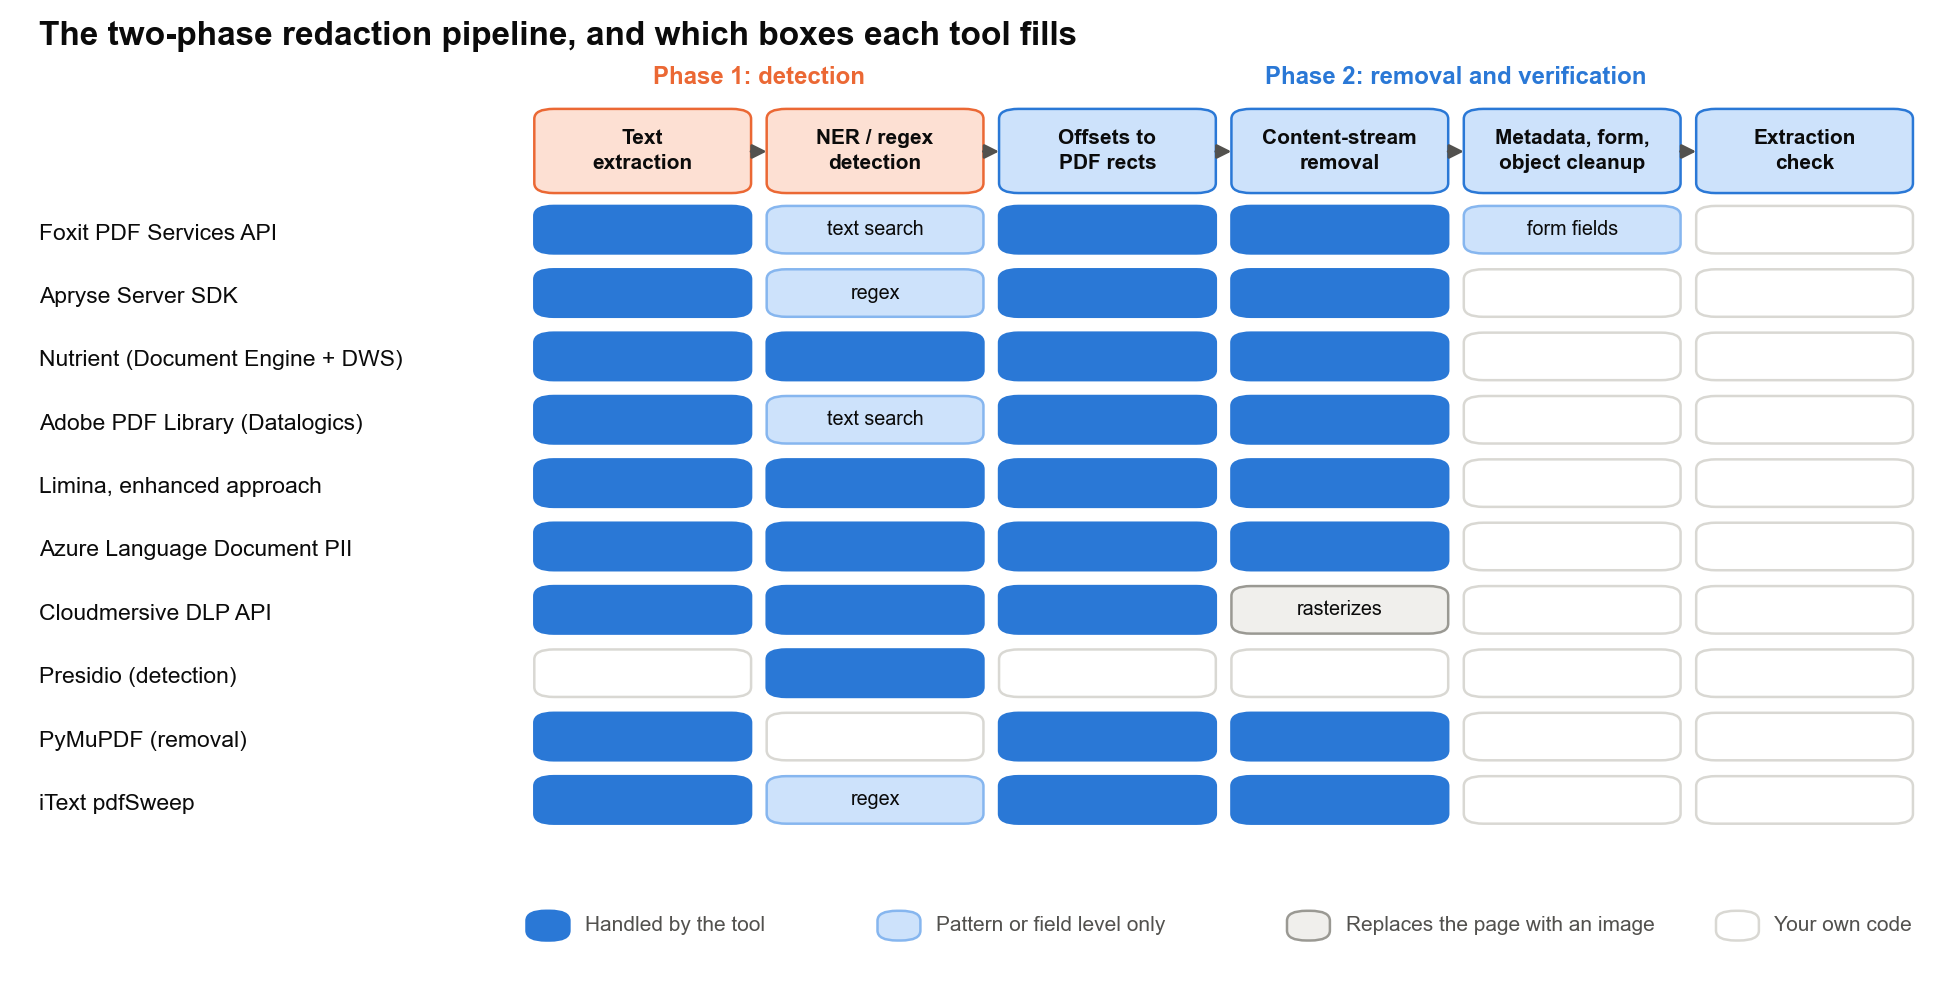
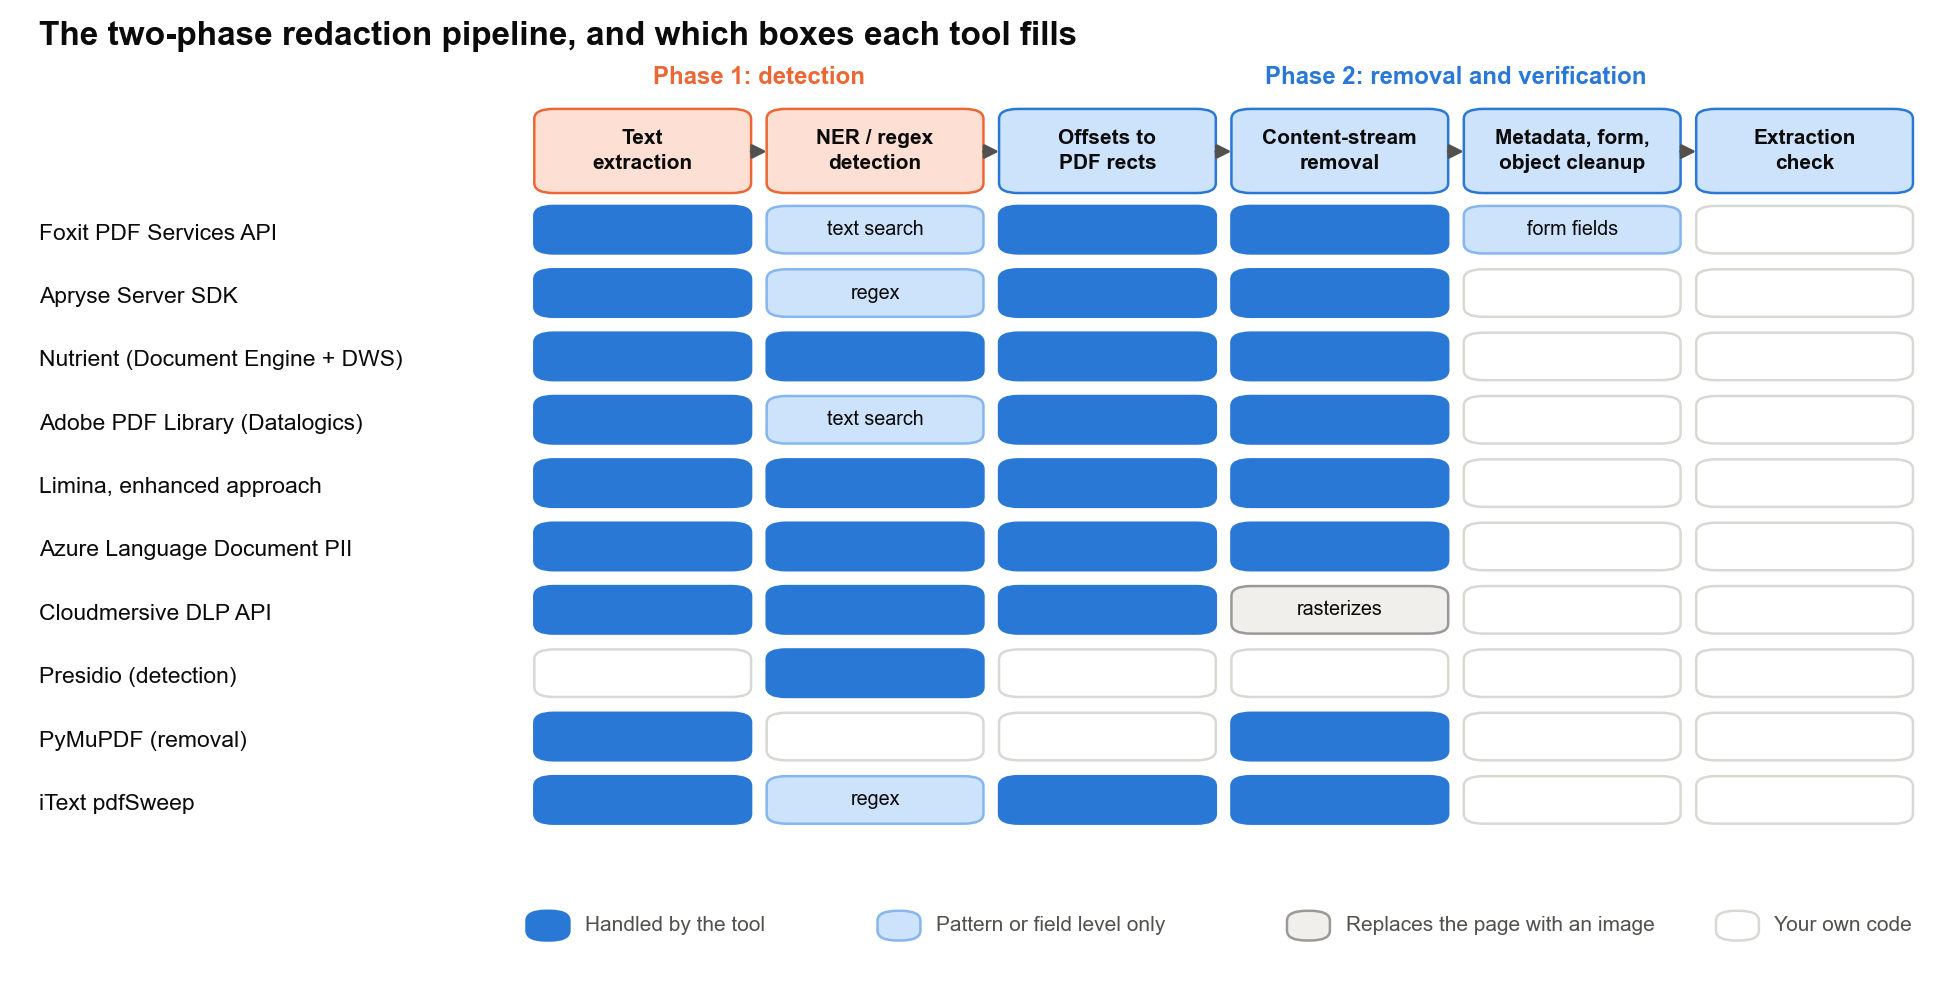
PDF redaction APIs: PyMuPDF offset mapping is your own code; use valid TD operators in the stream listings
Claude-Session: https://claude.ai/code/session_01Daiw7CjiusBHurnU49i86C

Changed region(s): [[0.4923, 0.697, 0.6462, 0.7879]]

diff --git a/images/pdf-redaction-apis/build_diagrams.py b/images/pdf-redaction-apis/build_diagrams.py
@@ -75,12 +75,12 @@ ax.text(0.02, 0.94, 'What pdftotext returns after 3 kinds of "redaction"',
 lanes = [
     ('Annotation overlay', RED, LRED,
      ['/Annots: black Square rect', 'drawn on top at display time'],
-     ['BT 72 692 Tm', '[(Patient: John Smith)] TJ ET', 'BT 72 662 Tm',
+     ['BT 72 692 TD', '[(Patient: John Smith)] TJ ET', 'BT 72 662 TD',
       '[(SSN: 123-45-6789)] TJ', 'ET'],
      None, 'Patient: John Smith\nSSN: 123-45-6789', 'Fails: the SSN is still in the file'),
     ('True redaction', GREEN, LGREEN,
      ['Glyphs inside the target rect', 'removed, stream rebuilt'],
-     ['BT 72 692 Tm', '[(Patient: John Smith)] TJ ET', 'BT 72 662 Tm',
+     ['BT 72 692 TD', '[(Patient: John Smith)] TJ ET', 'BT 72 662 TD',
       '[(SSN: )] TJ', 'ET'],
      3, 'Patient: John Smith\nSSN:', 'Passes: the SSN bytes are gone'),
     ('Page rasterization', BLUE, LIGHTBLUE,
@@ -153,7 +153,7 @@ rows = [
     ('Azure Language Document PII', ['Y', 'Y', 'Y', 'Y', '', '']),
     ('Cloudmersive DLP API', ['Y', 'Y', 'Y', 'r', '', '']),
     ('Presidio (detection)', ['', 'Y', '', '', '', '']),
-    ('PyMuPDF (removal)', ['Y', '', 'Y', 'Y', '', '']),
+    ('PyMuPDF (removal)', ['Y', '', '', 'Y', '', '']),
     ('iText pdfSweep', ['Y', 'regex', 'Y', 'Y', '', '']),
 ]
 fig, ax = canvas(13, 6.6)
